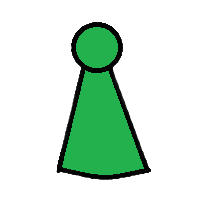
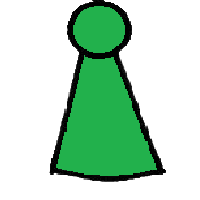
made gamepiece images slightly bigger, added more options for colors, rolldice button only shows when it is the player's turn, update whose_turn after piece is moved, prevented form resubmission

Changed region(s): [[0.24, 0.0, 0.84, 0.93]]

diff --git a/start_game.php b/start_game.php
@@ -4,6 +4,12 @@
     include('header.php');
     include('global.php');
 ?>
+<script>
+    if ( window.history.replaceState ){
+        window.history.replaceState(null, null, window.location.href );
+    }
+</script>
+
 <p><a href='index.php'>Home</a></p>
 <style>
     
@@ -164,7 +170,28 @@
         visibility: hidden;
         
     }
+    .lightgreenpiece{
+        background-image: url("images/pieces/lightgreengamepiece.png");
+        visibility: hidden;
+    }
+    .lavenderpiece{
+        background-image: url("images/pieces/lavendergamepiece.png");
+        visibility: hidden;
+    }
+    form[id="rolldiceform"] {
+        display: none;
+        width:80vw;
+        margin: 0 auto;
+    }
+    form{
+        width:80vw;
+        margin: 0 auto;
+    }
+
     
+
+    
+
 
     
     
@@ -633,7 +660,10 @@
         }
     ?>
     
-    <form method="post">
+
+
+
+    <form method="post" id="resetbuttonform">
         <input type="submit" name="resetbutton" class="button" value="Reset Button" />
     </form>
 
@@ -644,7 +674,7 @@
 
     
 
-    <form action="movePiece_process.php" method="post">
+    <form action="movePiece_process.php" method="post" id="movepieceform">
         <input type="text" id="movetext" name="movetext" />
         <input type="submit" name="changepos" value="ChangePos" />
     </form>
@@ -682,13 +712,15 @@
     }elseif($user_player_num == 4){
         $user_player_pos = $player4_pos;
     }
+
+    $_SESSION['whose_turn'] = $gamestate["whose_turn"];
     
     
     if(array_key_exists('rolldicebutton', $_POST)) {
         rollDice($connection);
     }
     ?>
-    <form method="post">
+    <form method="post" id="rolldiceform">
         <input type="submit" name="rolldicebutton" class="button" value="rolldice Button" />
     </form>
 
@@ -722,6 +754,16 @@
         }elseif ($player_pos == 31 and $_SESSION['countremaining'] > 0){
             choosePathForm("up", "left");
         }
+        if($_SESSION['countremaining'] == 0){
+            if($_SESSION['whose_turn'] == 4){
+                $_SESSION['whose_turn'] = 1;
+            }else{
+                $_SESSION['whose_turn'] += 1;
+            }
+            $whose_turn = $_SESSION['whose_turn'];
+            mysqli_query($connection, "UPDATE gamestate set whose_turn = '$whose_turn'");
+        }
+        
         if($GLOBALS['user_player_num'] == 1){
             mysqli_query($connection, "UPDATE gamestate set player1_pos = '$player_pos'");
             $GLOBALS['player1_pos'] = $player_pos;
@@ -816,10 +858,20 @@
             var player3_color = "<?php echo $player3_color; ?>";
             var player4_color = "<?php echo $player4_color; ?>";
             var rollnum = "<?php echo $roll; ?>";
+            var whose_turn = "<?php echo $_SESSION['whose_turn']; ?>";
+            var user_player_num = "<?php echo $user_player_num; ?>";
             var remainingRollCount = "<?php echo $_SESSION['countremaining']; ?>";
 
             x.getElementById("rollDisplay").innerHTML = "Dice number: " + rollnum + " remaining: " + remainingRollCount;
             
+            if(user_player_num == whose_turn){
+                const form = document.getElementById('rolldiceform');
+                form.style.display = 'block';
+            }
+
+
+
+
             //the collection is of the game pieces contained in the  at the playeer's position
             const player1space = x.getElementById(player1_pos).children;
             //I can then specify a specific game piece on that space to be turned visible

diff --git a/game_setup.php b/game_setup.php
@@ -8,14 +8,27 @@
         </div>
         
         <p>Select a game piece color: </p>
+        
         <input type="radio" id="lightblue" name="color" value="lightblue">
         <label for="lightblue">Light Blue</label><br>
+
         <input type="radio" id="pink" name="color" value="pink">
         <label for="pink">Pink</label><br>
+
         <input type="radio" id="green" name="color" value="green">
         <label for="green">Green</label><br>
+
         <input type="radio" id="white" name="color" value="white">
         <label for="white">White</label><br>
+
+        <input type="radio" id="lavender" name="color" value="lavender">
+        <label for="lavender">Lavender</label><br>
+
+        <input type="radio" id="lightgreen" name="color" value="lightgreen">
+        <label for="lightgreen">Light Green</label><br>
+
+
+
         <input type="submit" value="Submit">
 
     </form>

diff --git a/choosePath_process.php b/choosePath_process.php
@@ -48,7 +48,15 @@ while($_SESSION['countremaining']> 0){
     }
     $_SESSION['countremaining'] -= 1;
 }
-
+if($_SESSION['countremaining'] == 0){
+    if($_SESSION['whose_turn'] == 4){
+        $_SESSION['whose_turn'] = 1;
+    }else{
+        $_SESSION['whose_turn'] +=1;
+    }
+    $whose_turn = $_SESSION['whose_turn'];
+    mysqli_query($connection, "UPDATE gamestate set whose_turn = '$whose_turn'");
+}
 
 
 if($_SESSION['user_player_num'] == 1){
